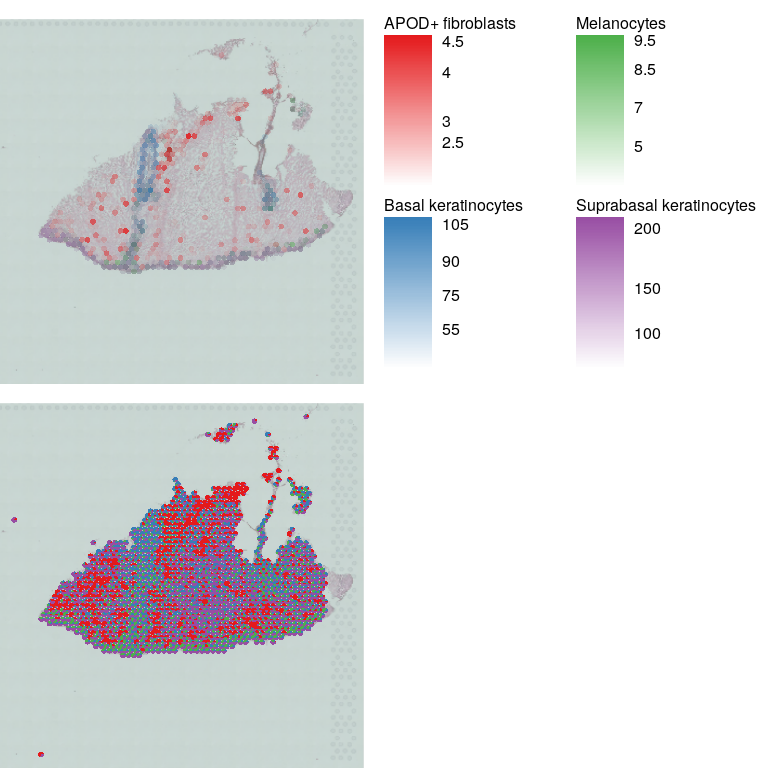
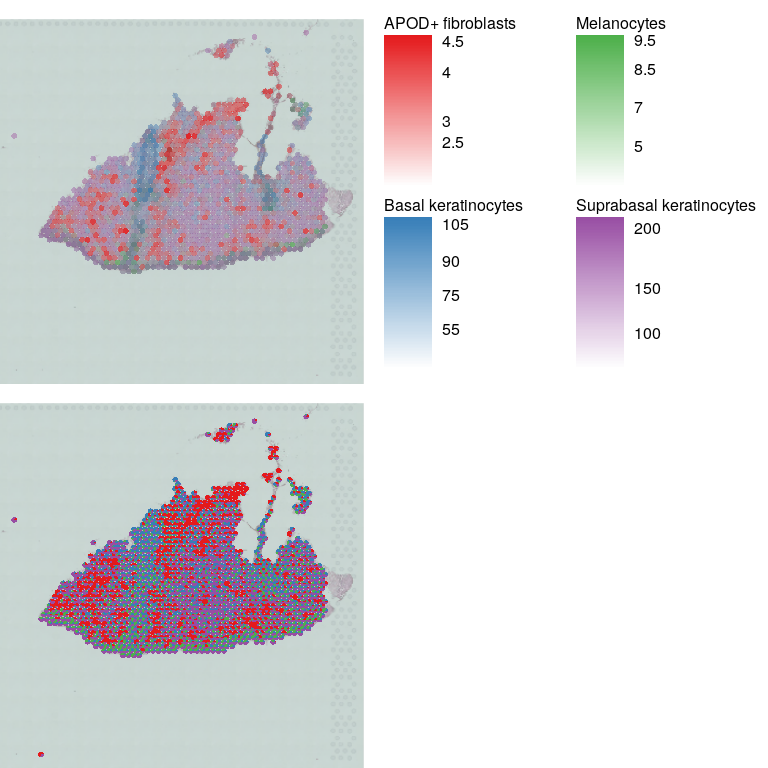
fix visualization vignette

Changed region(s): [[0.0625, 0.0625, 0.4375, 0.3438], [0.2812, 0.0312, 0.3125, 0.0938]]

diff --git a/vignettes/Visualization.md b/vignettes/Visualization.md
@@ -1,10 +1,9 @@
 Visualization
 ================
 
-- [Load libraries](#load-libraries)
 - [Load data](#load-data)
-
-# Load libraries
+- [Plot multiple microenvironments](#plot-multiple-microenvironments)
+- [Plot multiple genes](#plot-multiple-genes)
 
 ``` r
 # devtools::install_github("iaaka/visutils",force = TRUE)
@@ -46,8 +45,9 @@ plotVisium(vis,vis$nCount_Spatial,legend.args = list(title='UMI'))
 #> Loading required package: EBImage
 ```
 
-![](Visualization_files/figure-gfm/unnamed-chunk-3-1.png)<!-- --> \#
-Plot multiple microenvironments
+![](Visualization_files/figure-gfm/unnamed-chunk-3-1.png)<!-- -->
+
+# Plot multiple microenvironments
 
 ``` r
 c2l = as.matrix(vis@meta.data[,grep('c2l',colnames(vis@meta.data))])
@@ -55,14 +55,15 @@ colnames(c2l) = sub('c2l_','',colnames(c2l))
 celltypes = char2col(c('Suprabasal keratinocytes','APOD+ fibroblasts','Basal keratinocytes','Melanocytes'))
 #> Loading required package: randomcoloR
 par(mfrow=c(2,1),mar=c(0,0,1,20),bty='n')
-plotVisiumMultyColours(vis,c2l[,names(celltypes)],cols = celltypes,img.alpha=0.5,legend.ncol = 2)
+plotVisiumMultyColours(vis,c2l[,names(celltypes)],cols = celltypes,img.alpha=0.5,legend.ncol = 2,min.opacity = 100)
 # or as pie charts
 c2l = sweep(c2l,2,apply(c2l,2,max),'/')
 plotVisium(vis,pie.fracs = c2l[,names(celltypes)],pie.cols = celltypes,img.alpha=0.5)
 ```
 
-![](Visualization_files/figure-gfm/unnamed-chunk-4-1.png)<!-- --> \#
-Plot multiple genes
+![](Visualization_files/figure-gfm/unnamed-chunk-4-1.png)<!-- -->
+
+# Plot multiple genes
 
 ``` r
 cnts = vis@assays$Spatial@layers$counts
@@ -72,7 +73,7 @@ gids = char2col(c('KRT5','KRT10','COL1A2','PERP'))
 cpm = t(as.matrix(cnts[names(gids),]))
 cpm = sweep(cpm,1,vis$nCount_Spatial,'/')*1e4
 par(mar=c(0,0,1,20),bty='n')
-plotVisiumMultyColours(vis,cpm,cols = gids,img.alpha=0.5,legend.ncol = 2)
+plotVisiumMultyColours(vis,cpm,cols = gids,img.alpha=0.5,legend.ncol = 2,min.opacity = 100)
 ```
 
 ![](Visualization_files/figure-gfm/unnamed-chunk-5-1.png)<!-- -->
